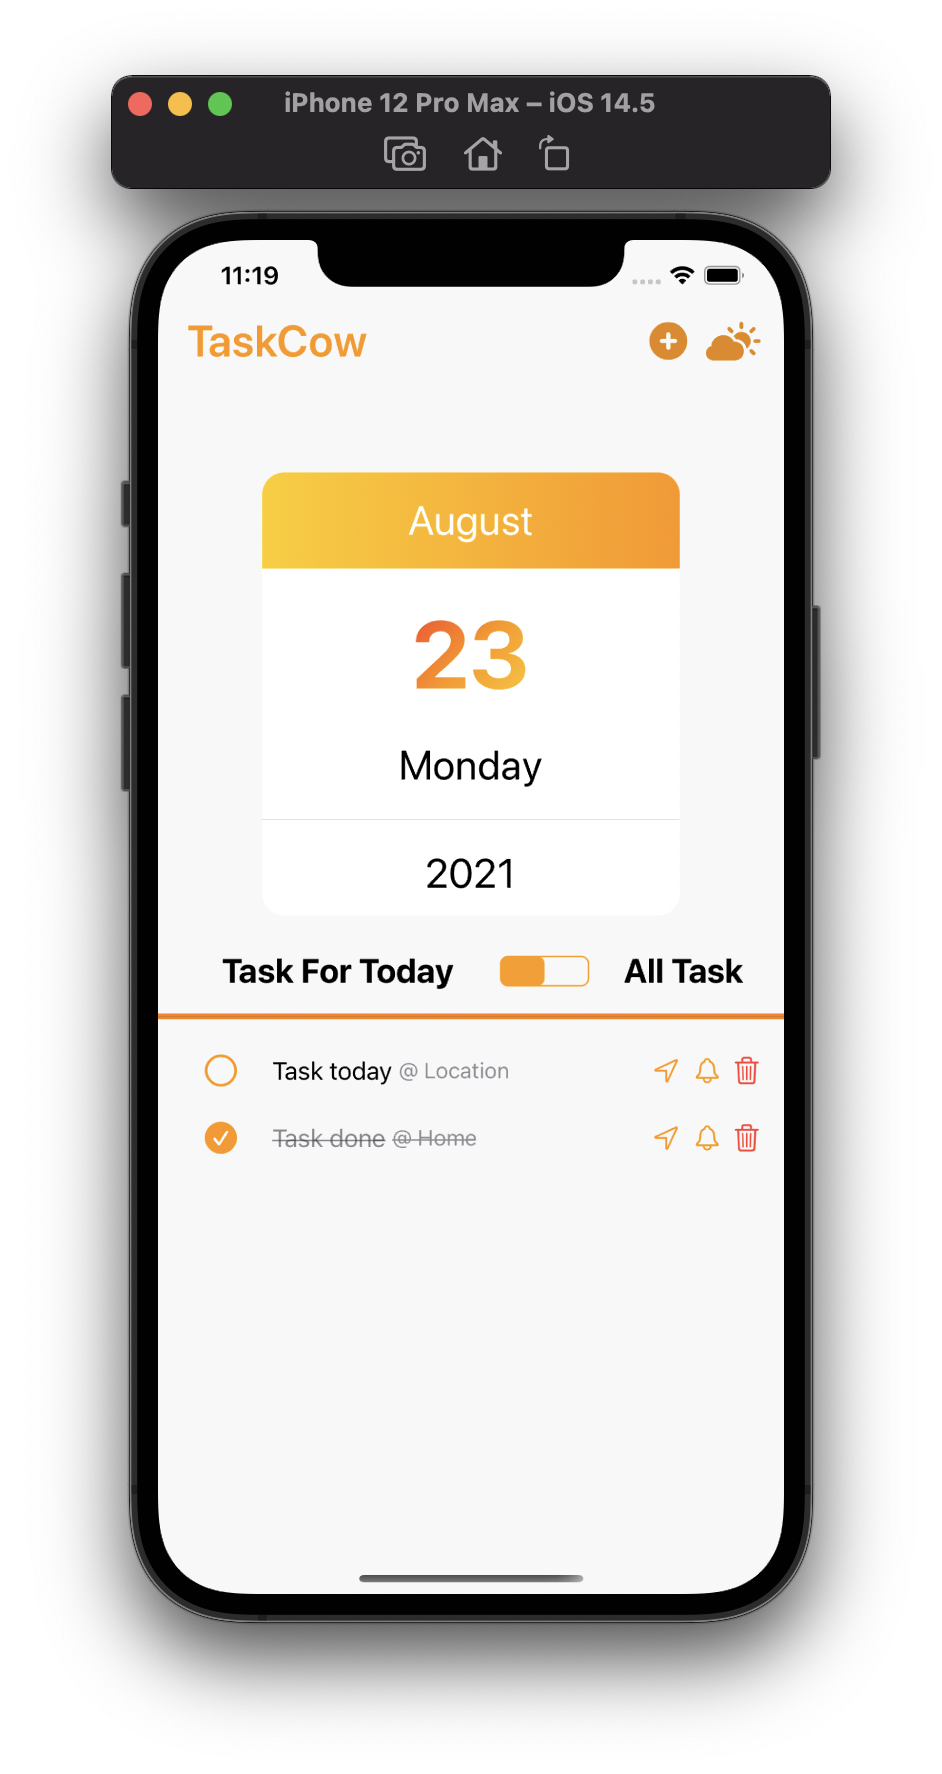
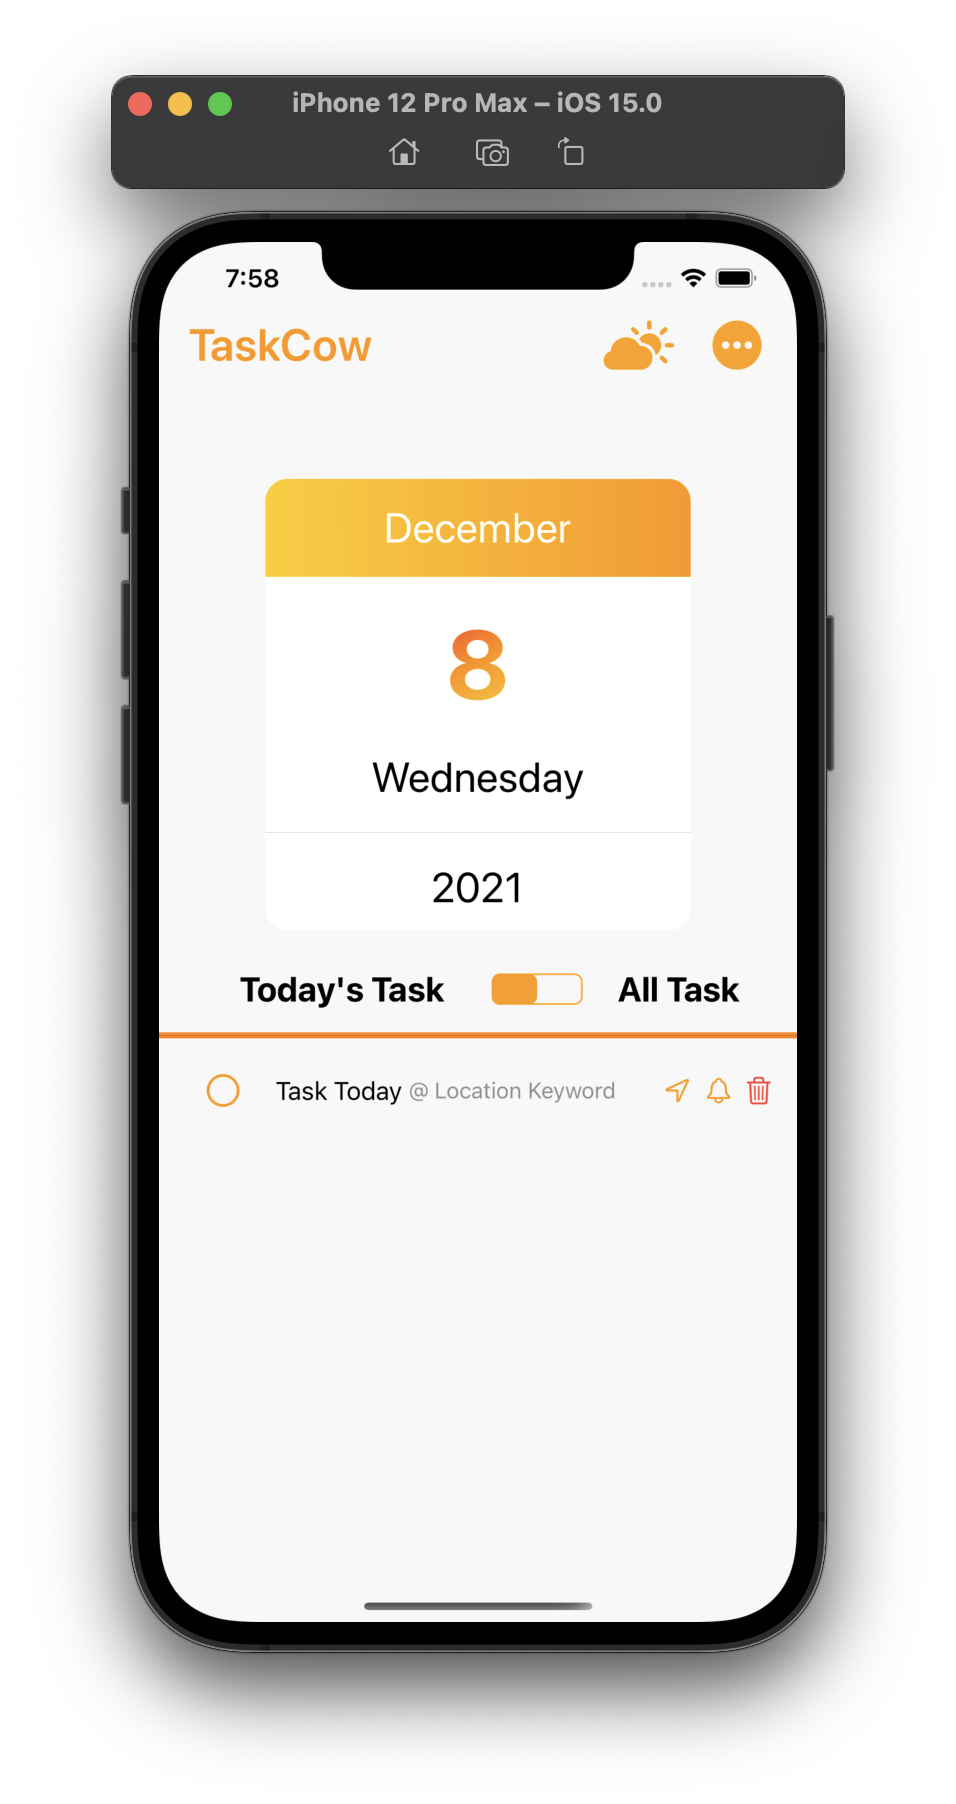
new tc privacy & tc details ss

diff --git a/src/pages/TaskCowPrivacy.js b/src/pages/TaskCowPrivacy.js
@@ -41,6 +41,15 @@ const AboutPageStyles = styled.div`
         }
     }
 
+    .lastUpdatedDate{
+       color:lightslategrey;
+       margin-top: -2.75rem;
+       margin-bottom:2rem;
+      font-weight:lighter;
+     
+      font-size:1rem;
+    }
+
     .aboutHeader{
         font-size: 3.6rem;
         margin-bottom:3rem;
@@ -103,12 +112,17 @@ export default function TaskCowPrivacy() {
                         <p className="aboutSubHead">
                            <span>TaskCow</span>
                         </p>
+                      
                         <h2 className="aboutHeader">
                             taskcow's privacy
+                             
                         </h2>
+                        <p className="lastUpdatedDate"> Last updated: 9th Dec 2021</p>
+
+                     
                         <div className="aboutInfo">
                             <PText>
-                            TaskCow respects the privacy of our users so we store everything locally on each unique devices . I don't collect, use, disclose, or have any access over your information as your personal data within TaskCow is stored locally on your device. Please read this Privacy Policy carefully.  IF YOU DO NOT AGREE WITH THE TERMS OF THIS PRIVACY POLICY, PLEASE DO NOT ACCESS, PURCHASE THE APPLICATION. 
+                            TaskCow respects the privacy of our users so we store everything locally on each unique devices . I don't collect, use, disclose, or have any access over your information as your personal data within TaskCow is stored locally on your device. Please read this Privacy Policy carefully.  IF YOU DO NOT AGREE WITH THE TERMS OF THIS PRIVACY POLICY, PLEASE DO NOT ACCESS, USE THE APPLICATION. 
                         <br/><br/>
                         We reserve the right to make changes to this Privacy Policy at any time and for any reason.  We will alert you about any changes by updating the “Last updated” date of this Privacy Policy.  You are encouraged to periodically review this Privacy Policy to stay informed of updates. You will be deemed to have been made aware of, will be subject to, and will be deemed to have accepted the changes in any revised Privacy Policy by your continued use of the Application after the date such revised Privacy Policy is posted.  
  
@@ -124,7 +138,7 @@ export default function TaskCowPrivacy() {
                         </h2>
                         <div className="aboutInfo">
                             <PText>
-                            We have a child friendly application so any ages are welcomed to use our application however purchases from children under 12 will require parental guidance.
+                            We have a child friendly application so any ages are welcomed to use our application however purchases such as in app purchases from children under 12 will require parental guidance.
                         <br/><br/>
                         
                             </PText>
@@ -135,7 +149,7 @@ export default function TaskCowPrivacy() {
                         </h2>
                         <div className="aboutInfo">
                             <PText>
-                            We don't store user's location but we store the location keyword or postal code that they added together with Tasks in local storage as for the searching nearby location we won't store any user's current location since we will be using device's location to search for nearby stores according to keyword user enters. User can disable our application to access their device's location in settings and also to disable precise location to be used. This way no User's location will be stored since we don't even store it.
+                            We don't store user's location but we store the location keyword or postal code that they added together with Tasks in local storage as for the searching nearby location we won't store any user's current location since we will be using device's location to search for nearby stores according to keyword user enters. User can disable our application's access to their device's location in their device's settings and also to disable precise location to be used. This way no User's location will be stored since we don't even store it.
 
 
                             <br/><br/>
@@ -154,12 +168,14 @@ export default function TaskCowPrivacy() {
                         </p>
                         <div className="aboutInfo">
                             <PText>
-                            You may at any time review or change or refund your purchase by:
+                            You may not review or change or refund your in app purchases due to reasons stated below:
                             <br/><br/>
-                             -  Requesting for refund at App Store
-
-                        <br/><br/>
-                        Upon your request to refund your purchase, TaskCow updates will no longer be available for you. 
+                             -  TaskCow is a free app 
+                             <br/>
+                             -  Donation is solely up to user's choice to support the developer 
+                             <br/>
+                             -  Having In App Purchase does not provide user better experience or more features.
+                    
                         
                             </PText>
                         </div>

diff --git a/src/assets/data/taskcowSS.js b/src/assets/data/taskcowSS.js
@@ -12,9 +12,25 @@ import Widgets from '../DesignConceptTaskCow/Widgets.png';
 import Widgets2 from '../DesignConceptTaskCow/Widgets2.png';
 import SetNotifications from '../DesignConceptTaskCow/SetNotifications.png';
 import LaunchScreen from '../DesignConceptTaskCow/LaunchScreen.png';
+import CompletedTaskPage from '../DesignConceptTaskCow/CompletedTaskPage.png';
 
 
 const taskCowSS = [
+    {
+      id: 10,
+      name: "Launch Screen page",
+      desc:
+        'This is what users see whenever the app is launched',
+        img: LaunchScreen,
+    },
+
+    {
+      id: 8,
+      name: "Onboarding Screen",
+      desc:
+        'There is also a feature to show user of new updates in the app whenever they update or first download the app to showcase features available as well to guide user whenever they might be unsure of what TaskCow is capable of.',
+        img: OnBoard,
+    },
     {
       id: 0,
       name: 'Home Page',
@@ -29,6 +45,15 @@ const taskCowSS = [
         "Users see this page when they click add task button on the home page. Allow users to add tasks only for dates that have not passed like on today or after today. Else 'Done'  button will be in disabled mode.",
       img: AddTask
     },
+    {
+      id:11,
+      name: 'View All Task Page',
+      desc:
+        "Users see this page when they click add View Completed tasks button on the drop down menu. Allow users to view all their completed task previously and even add it back with just a different date to be set.",
+      img: CompletedTaskPage
+    },
+
+
     {
       id: 2,
       name: 'Location Feature 1',
@@ -72,13 +97,7 @@ const taskCowSS = [
           'There is a different design for widget when there is no task too.',
           img: Widgets2,
       },
-      {
-        id: 8,
-        name: "Onboarding Screen",
-        desc:
-          'There is also a feature to show user of new updates in the app whenever they update or first download the app to showcase features available as well to guide user whenever they might be unsure of what TaskCow is capable of.',
-          img: OnBoard,
-      },
+     
       {
         id: 9,
         name: "Notifications page",
@@ -86,13 +105,7 @@ const taskCowSS = [
           'Of Course a task application cant do without setting notfications to remind ourselves, be surprised by what reminds you.',
           img: SetNotifications,
       },
-      {
-        id: 10,
-        name: "Launch Screen page",
-        desc:
-          'This is what users see whenever the app is launched',
-          img: LaunchScreen,
-      },
+     
    
   ];
 

diff --git a/src/pages/TaskCowDetails.js b/src/pages/TaskCowDetails.js
@@ -401,7 +401,7 @@ export default function TaskCowDetails() {
                   
                     >
                         {taskCowSS.map((project, index)=>{
-                            if (index >= 10) return;
+                            if (index >= 12) return;
 
                             return(
                                 <SwiperSlide key={project.id}>
